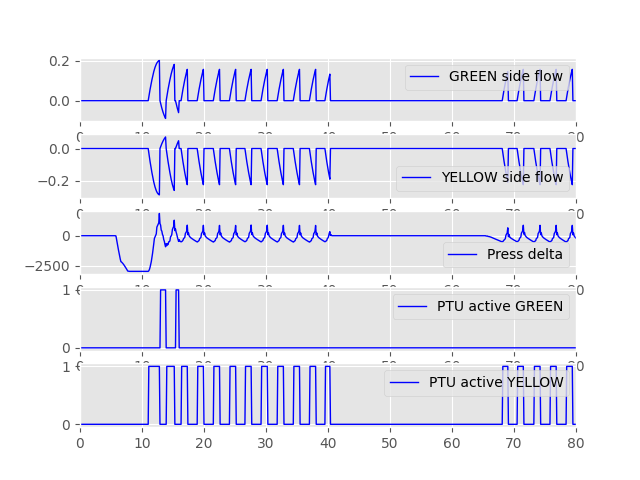
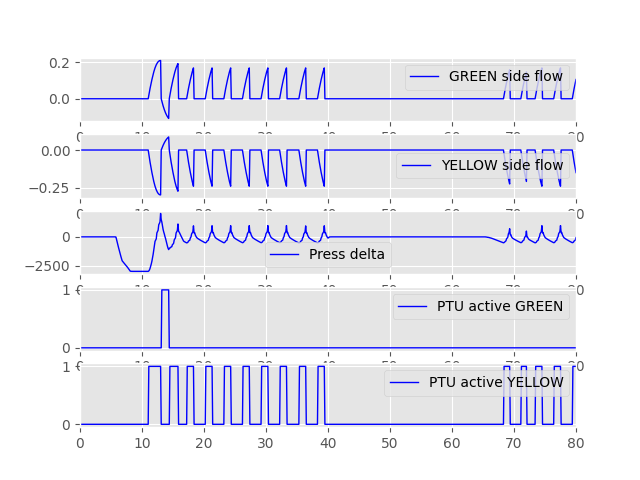
Updated loop pressure update
Low filter added to help with numerical stability at low sim rate

diff --git a/systems/src/hydraulic/mod.rs b/systems/src/hydraulic/mod.rs
@@ -332,7 +332,11 @@ pub struct HydLoop {
 impl HydLoop {
     const ACCUMULATOR_GAS_PRE_CHARGE: f64 =1885.0; // Nitrogen PSI
     const ACCUMULATOR_MAX_VOLUME: f64  =0.264; // in gallons
-    const HYDRAULIC_FLUID_DENSITY: f64 = 1000.55; // Exxon Hyjet IV, kg/m^3
+    //const HYDRAULIC_FLUID_DENSITY: f64 = 1000.55; // Exxon Hyjet IV, kg/m^3
+
+    //Low pass filter on pressure. This has to be pretty high not to modify behavior of the loop, but still dampening numerical instability
+    const PRESSURE_LOW_PASS_FILTER : f64 = 0.75;
+
     const ACCUMULATOR_PRESS_BREAKPTS: [f64; 9] = [
         0.0 ,5.0 , 10.0 ,50.0 ,100.0 ,200.0 ,500.0 ,1000.0 , 10000.0
     ];
@@ -437,19 +441,18 @@ impl HydLoop {
             delta_vol_max += p.get_delta_vol_max();
             delta_vol_min += p.get_delta_vol_min();
         }
-        // println!("----------START------");
-        // println!("---Current Press {}", pressure.get::<psi>());
-        // println!("---DELTA volMax {}", delta_vol_max.get::<gallon>());
+
+
         //Static leaks
         //TODO: separate static leaks per zone of high pressure or actuator
         //TODO: Use external pressure and/or reservoir pressure instead of 14.7 psi default
         let static_leaks_vol = Volume::new::<gallon>(0.04 * delta_time.as_secs_f64() * (self.loop_pressure.get::<psi>() - 14.7) / 3000.0);
-        // println!("---Leaks vol {}", static_leaks_vol.get::<gallon>());
+
         // Draw delta_vol from reservoir
         delta_vol -= static_leaks_vol;
         reservoir_return += static_leaks_vol;
 
-        //TODO PTU
+        //PTU flows handling
         let mut ptu_act = false;
         for ptu in ptus {
             let mut actualFlow = VolumeRate::new::<gallon_per_second>(0.0);
@@ -544,38 +547,31 @@ impl HydLoop {
 
         //How much we need to reach target of 3000?
         let mut volume_needed_to_reach_pressure_target = self.vol_to_target(Pressure::new::<psi>(3000.0));
-        // println!("---needed {}", volume_needed_to_reach_pressure_target.get::<gallon>());
         //Actually we need this PLUS what is used by consumers.
         volume_needed_to_reach_pressure_target -= delta_vol;
-        // println!("---neededFinal {}", volume_needed_to_reach_pressure_target.get::<gallon>());
 
         //Now computing what we will actually use from flow providers limited by
         //their min and max flows and reservoir availability
         let actual_volume_added_to_pressurise = self.reservoir_volume.min(delta_vol_min.max(delta_vol_max.min(volume_needed_to_reach_pressure_target)));
-        // println!("---actual vol added {}", actual_volume_added_to_pressurise.get::<gallon>());
         delta_vol+=actual_volume_added_to_pressurise;
-        // println!("---final delta vol {}", delta_vol.get::<gallon>());
 
         //Loop Pressure update From Bulk modulus
-        let pressDelta = self.delta_pressure_from_delta_volume(delta_vol);
-        // println!("---Press delta {}", pressDelta.get::<psi>());
-        self.loop_pressure += pressDelta; //Just ensuring we don't go in negative press
-        self.loop_pressure = self.loop_pressure.max(Pressure::new::<psi>(14.7));
-        // println!("---Final press {}", self.loop_pressure.get::<psi>());
+        let press_delta = self.delta_pressure_from_delta_volume(delta_vol);
+        let new_raw_press=self.loop_pressure + press_delta; //New raw pressure before we filter it
+
+        self.loop_pressure= HydLoop::PRESSURE_LOW_PASS_FILTER * new_raw_press + (1.-HydLoop::PRESSURE_LOW_PASS_FILTER) * self.loop_pressure;
+        self.loop_pressure = self.loop_pressure.max(Pressure::new::<psi>(14.7)); //Forcing a min pressure
 
 
         //Update reservoir
         self.reservoir_volume -= actual_volume_added_to_pressurise; //%limit to 0 min? for case of negative added?
         self.reservoir_volume += reservoir_return;
-        // println!("---Reservoir vol {}", self.reservoir_volume.get::<gallon>());
+
         //Update Volumes
         self.loop_volume += delta_vol;
-        // println!("---Total vol {} / {}", self.loop_volume.get::<gallon>(),self.max_loop_volume.get::<gallon>());
 
         self.current_delta_vol=delta_vol;
         self.current_flow=delta_vol / Time::new::<second>(delta_time.as_secs_f64());
-        // println!("---Final flow {}", self.current_flow.get::<gallon_per_second>());
-        // println!("---------END-------");
     }
 }
 
@@ -972,7 +968,7 @@ mod tests {
                 edp1.stop();
             }
             if x >= 500 { //Shutdown + 30s
-                assert!(green_loop.loop_pressure <= Pressure::new::<psi>(50.0));
+                assert!(green_loop.loop_pressure <= Pressure::new::<psi>(250.0));
             }
 
             edp1.update(&ct.delta,&ct, &green_loop, &engine1);
@@ -1096,7 +1092,7 @@ mod tests {
             }
 
             if x >= 600 { //X+200 after shutoff = X + 20seconds @ 100ms, so pressure shall be low
-                assert!(yellow_loop.loop_pressure <= Pressure::new::<psi>(100.0));
+                assert!(yellow_loop.loop_pressure <= Pressure::new::<psi>(200.0));
             }
             epump.update(&ct.delta,&ct, &yellow_loop);
             yellow_loop.update(&ct.delta,&ct, vec![&epump], Vec::new(), Vec::new(), Vec::new());
